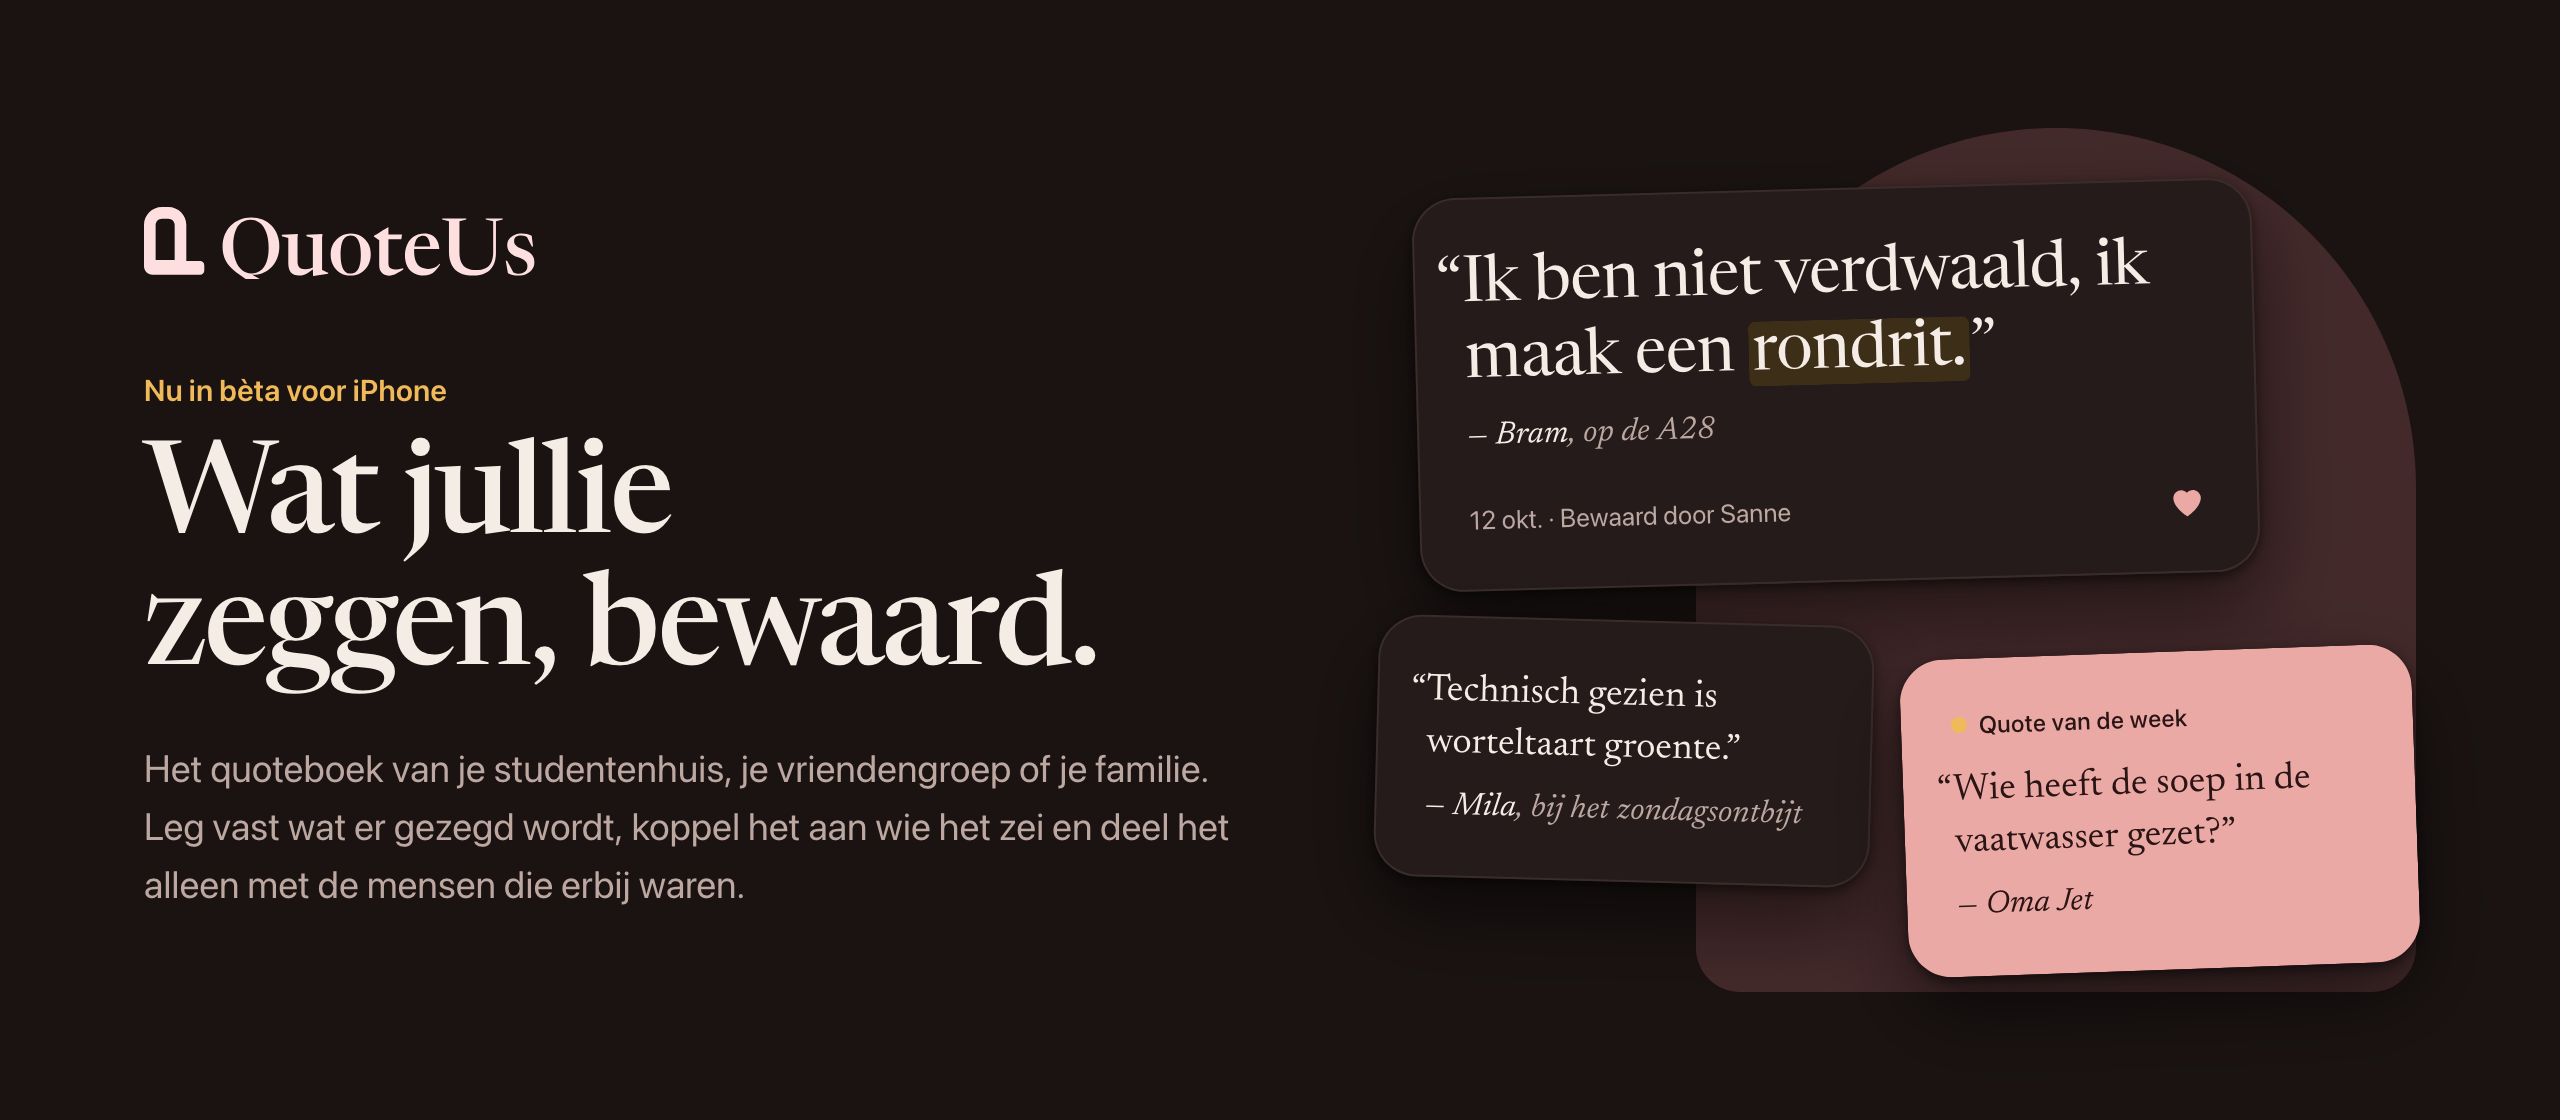
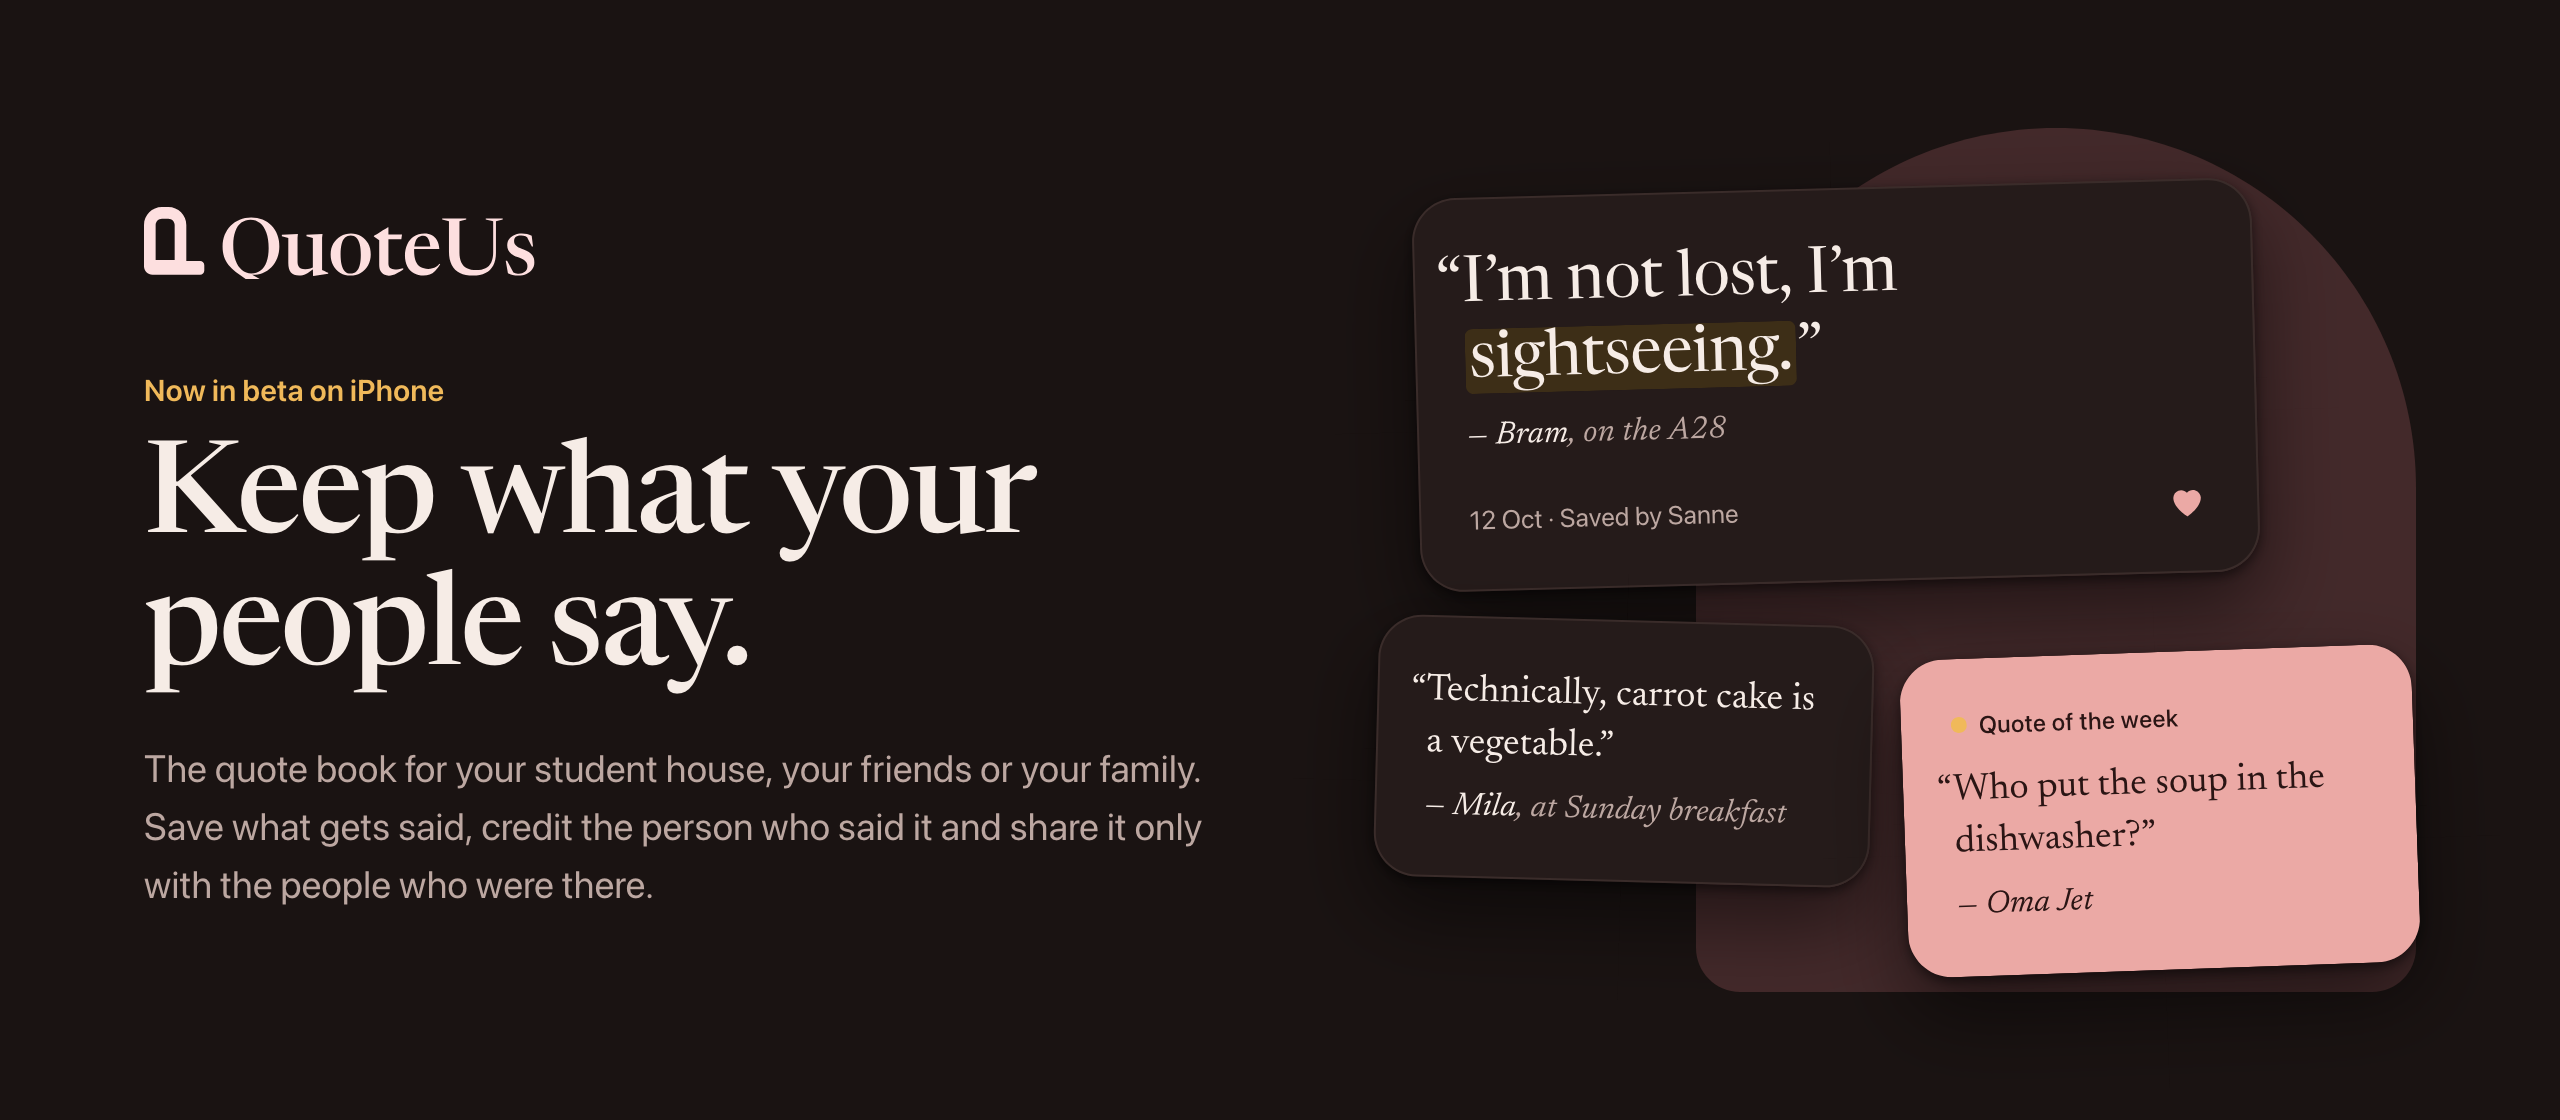
Make the profile README English first
The banner and the text are now in English, with the Dutch summary
in a collapsed section.

diff --git a/profile/assets/source/readme-images.html b/profile/assets/source/readme-images.html
@@ -1,5 +1,5 @@
 <!doctype html>
-<html lang="nl">
+<html lang="en">
 <head>
 <meta charset="utf-8">
 <title>QuoteUs README images</title>
@@ -84,24 +84,24 @@
   <div>
     <img class="wordmark logo-light" src="../../../../website/public/logos/quoteus-wordmark-oxblood.svg" alt="QuoteUs">
     <img class="wordmark logo-dark" src="../../../../website/public/logos/quoteus-wordmark-blush.svg" alt="QuoteUs">
-    <p class="eyebrow">Nu in bèta voor iPhone</p>
-    <h1>Wat jullie zeggen, bewaard.</h1>
-    <p class="lead">Het quoteboek van je studentenhuis, je vriendengroep of je familie. Leg vast wat er gezegd wordt, koppel het aan wie het zei en deel het alleen met de mensen die erbij waren.</p>
+    <p class="eyebrow">Now in beta on iPhone</p>
+    <h1>Keep what your people say.</h1>
+    <p class="lead">The quote book for your student house, your friends or your family. Save what gets said, credit the person who said it and share it only with the people who were there.</p>
   </div>
   <div class="stage">
     <div class="arch"></div>
     <figure class="card card--hero card-a">
-      <blockquote class="card__text">“Ik ben niet verdwaald, ik maak een <mark>rondrit.</mark>”</blockquote>
-      <figcaption class="card__by">— Bram<span>, op de A28</span></figcaption>
-      <div class="card__foot"><span>12 okt. · Bewaard door Sanne</span><svg viewBox="0 0 24 24"><path d="M12 20.5s-7.5-4.6-7.5-10.2A4.3 4.3 0 0 1 12 7.6a4.3 4.3 0 0 1 7.5 2.7c0 5.6-7.5 10.2-7.5 10.2z" fill="currentColor"/></svg></div>
+      <blockquote class="card__text">“I’m not lost, I’m <mark>sightseeing.</mark>”</blockquote>
+      <figcaption class="card__by">— Bram<span>, on the A28</span></figcaption>
+      <div class="card__foot"><span>12 Oct · Saved by Sanne</span><svg viewBox="0 0 24 24"><path d="M12 20.5s-7.5-4.6-7.5-10.2A4.3 4.3 0 0 1 12 7.6a4.3 4.3 0 0 1 7.5 2.7c0 5.6-7.5 10.2-7.5 10.2z" fill="currentColor"/></svg></div>
     </figure>
     <figure class="card card--md card-b">
-      <blockquote class="card__text">“Technisch gezien is worteltaart groente.”</blockquote>
-      <figcaption class="card__by">— Mila<span>, bij het zondagsontbijt</span></figcaption>
+      <blockquote class="card__text">“Technically, carrot cake is a vegetable.”</blockquote>
+      <figcaption class="card__by">— Mila<span>, at Sunday breakfast</span></figcaption>
     </figure>
     <figure class="card card--md card--oxblood card-c">
-      <p class="card__eyebrow"><span class="dot"></span>Quote van de week</p>
-      <blockquote class="card__text">“Wie heeft de soep in de vaatwasser gezet?”</blockquote>
+      <p class="card__eyebrow"><span class="dot"></span>Quote of the week</p>
+      <blockquote class="card__text">“Who put the soup in the dishwasher?”</blockquote>
       <figcaption class="card__by">— Oma Jet</figcaption>
     </figure>
   </div>

diff --git a/profile/README.md b/profile/README.md
@@ -1,23 +1,23 @@
 <picture>
   <source media="(prefers-color-scheme: dark)" srcset="assets/banner-dark.png">
-  <img src="assets/banner-light.png" alt="QuoteUs. Wat jullie zeggen, bewaard. Het quoteboek van je studentenhuis, je vriendengroep of je familie." width="100%">
+  <img src="assets/banner-light.png" alt="QuoteUs. Keep what your people say. The quote book for your student house, your friends or your family." width="100%">
 </picture>
 
-**QuoteUs** is het quoteboek van je studentenhuis, je vriendengroep of je familie. Leg vast wat er gezegd wordt, koppel het aan wie het zei en deel het alleen met de mensen die erbij waren.
+**QuoteUs** is the quote book for your student house, your friends or your family. Save what gets said, credit the person who said it and share it only with the people who were there.
 
-- **Groepen voor iedereen.** Maak een groep voor je huis, je dispuut, je team of je familie en nodig je mensen uit.
-- **Altijd de juiste auteur.** Elke quote hoort bij wie hem zei, ook als diegene de app nog niet heeft.
-- **Alleen voor jullie.** Geen openbare tijdlijn, geen tracking, servers in de Europese Unie.
+- **Groups for everyone.** Start a group for your house, your society, your team or your family and invite your people.
+- **Always the right author.** Every quote belongs to the person who said it, even if they don't have the app yet.
+- **Just for you lot.** No public feed, no tracking, servers in the European Union.
 
-QuoteUs is nu in bèta voor iPhone via TestFlight. Android en een webversie volgen later.
+QuoteUs is now in beta on iPhone through TestFlight. Android and a web version are coming later.
 
-[Website](https://quoteus.eu) · [Doe mee met de bèta](https://testflight.apple.com/join/FxUNhBHg) · [Helpcentrum](https://help.quoteus.eu) · [support@quoteus.eu](mailto:support@quoteus.eu)
+[Website](https://quoteus.eu) · [Join the beta](https://testflight.apple.com/join/FxUNhBHg) · [Help center](https://help.quoteus.eu) · [support@quoteus.eu](mailto:support@quoteus.eu)
 
-De broncode van QuoteUs is niet openbaar; de repositories in deze organisatie zijn privé. Vragen of een beveiligingsprobleem gevonden? Mail [support@quoteus.eu](mailto:support@quoteus.eu).
+The source code of QuoteUs is not public; the repositories in this organization are private. Questions, or found a security issue? Email [support@quoteus.eu](mailto:support@quoteus.eu).
 
 <details>
-<summary>In English</summary>
+<summary>Nederlands</summary>
 
-QuoteUs is the quote book for your student house, your friends or your family. Save what gets said, credit the person who said it and share it only with the people who were there. Now in beta on iPhone through [TestFlight](https://testflight.apple.com/join/FxUNhBHg); Android and a web version are coming later. The source code is not public. Questions or a security issue? Email [support@quoteus.eu](mailto:support@quoteus.eu).
+QuoteUs is het quoteboek van je studentenhuis, je vriendengroep of je familie. Leg vast wat er gezegd wordt, koppel het aan wie het zei en deel het alleen met de mensen die erbij waren. Nu in bèta voor iPhone via [TestFlight](https://testflight.apple.com/join/FxUNhBHg); Android en een webversie volgen later. De broncode is niet openbaar. Vragen of een beveiligingsprobleem gevonden? Mail [support@quoteus.eu](mailto:support@quoteus.eu).
 
 </details>
